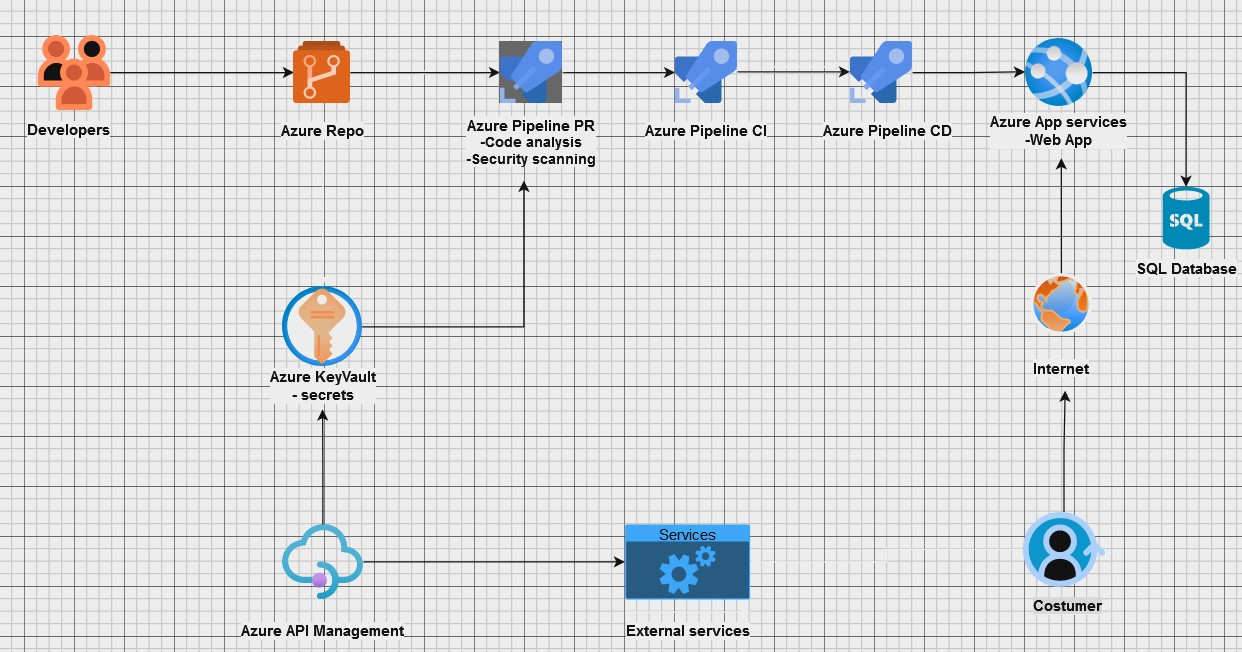
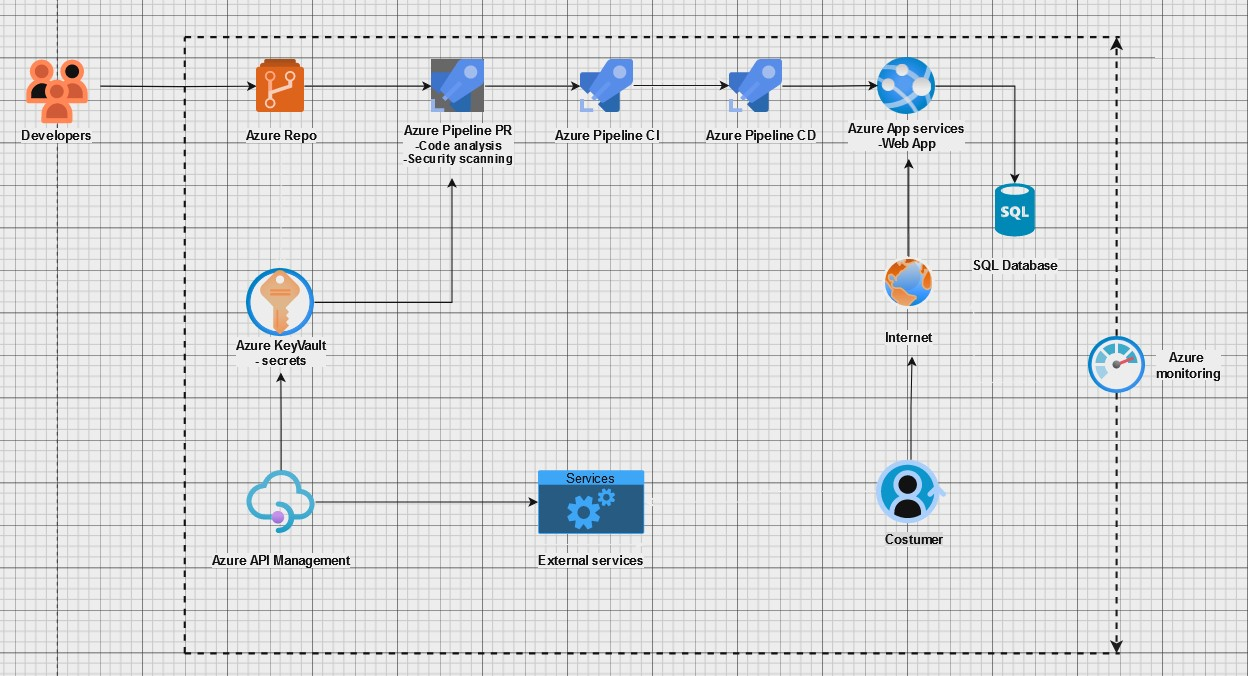
Initial commit

diff --git a/Full Terraform Configuration.md b/Full Terraform Configuration.md
@@ -1,33 +1,3 @@
-All these resourses are can be deployed in azure portal using GUI and can be configured manually.
-
-1. **SQL Database**:
-
-- Service: Azure SQL Database
-- Purpose: Store application data
-- Configuration: Single Database or Elastic Pool depending on the load and usage patterns
-
-2. **Key Vault**:
-
-- Service: Azure Key Vault
-- Purpose: Store sensitive information like connection strings, API keys, and certificates
-- Configuration: Enable logging and access policies for applications and developers
-
-3. **Webapp Services**:
-
-- Service: Azure App Service
-- Purpose: Host the web application
-- Configuration: Use App Service Plan to scale the app and deploy multiple instances for high availability
-
-4. **Integration with External Services**:
-
-- Services: Azure API Management, Logic Apps, or Azure Functions
-- Purpose: Manage and secure APIs, orchestrate workflows, or run serverless functions to integrate with external services
-- Configuration: Configure API endpoints, security, and monitoring
-
-**These resources can also be deployed using terraform and the services can be configured**
-
-The below is the example terraform code
-
 ```hcl
 # provider.tf
 provider "azurerm" {
@@ -118,4 +88,67 @@ resource "azurerm_api_management_api" "example" {
   protocols           = ["https"]
 }
 
+# monitoring.tf
+resource "azurerm_log_analytics_workspace" "main" {
+  name                = "myLogAnalyticsWorkspace"
+  location            = azurerm_resource_group.main.location
+  resource_group_name = azurerm_resource_group.main.name
+  sku                 = "PerGB2018"
+}
+
+resource "azurerm_application_insights" "main" {
+  name                = "myAppInsights"
+  location            = azurerm_resource_group.main.location
+  resource_group_name = azurerm_resource_group.main.name
+  application_type    = "web"
+  workspace_id        = azurerm_log_analytics_workspace.main.id
+}
+
+resource "azurerm_monitor_diagnostic_setting" "app_service" {
+  name               = "diagAppService"
+  target_resource_id = azurerm_app_service.main.id
+  log_analytics_workspace_id = azurerm_log_analytics_workspace.main.id
+
+  log {
+    category = "AppServiceHTTPLogs"
+    enabled  = true
+    retention_policy {
+      enabled = true
+      days    = 30
+    }
+  }
+
+  metric {
+    category = "AllMetrics"
+    enabled  = true
+    retention_policy {
+      enabled = true
+      days    = 30
+    }
+  }
+}
+
+resource "azurerm_monitor_diagnostic_setting" "sql_database" {
+  name               = "diagSqlDatabase"
+  target_resource_id = azurerm_sql_database.main.id
+  log_analytics_workspace_id = azurerm_log_analytics_workspace.main.id
+
+  log {
+    category = "SQLInsights"
+    enabled  = true
+    retention_policy {
+      enabled = true
+      days    = 30
+    }
+  }
+
+  metric {
+    category = "AllMetrics"
+    enabled  = true
+    retention_policy {
+      enabled = true
+      days    = 30
+    }
+  }
+}
 ```

diff --git a/Phase_05/Azure Monitoring.md b/Phase_05/Azure Monitoring.md
@@ -1,0 +1,77 @@
+1. **Azure Monitor**:
+
+- This service provides a unified view of our application and infrastructure performance and health.
+
+2. **Application Insights**:
+
+- This is an application performance management service for web applications that provides real-time monitoring and analytics.
+
+**Terraform configuration for Monitoring**
+
+```hcl
+
+# monitoring.tf
+resource "azurerm_log_analytics_workspace" "main" {
+  name                = "myLogAnalyticsWorkspace"
+  location            = azurerm_resource_group.main.location
+  resource_group_name = azurerm_resource_group.main.name
+  sku                 = "PerGB2018"
+}
+
+resource "azurerm_application_insights" "main" {
+  name                = "myAppInsights"
+  location            = azurerm_resource_group.main.location
+  resource_group_name = azurerm_resource_group.main.name
+  application_type    = "web"
+  workspace_id        = azurerm_log_analytics_workspace.main.id
+}
+
+resource "azurerm_monitor_diagnostic_setting" "app_service" {
+  name               = "diagAppService"
+  target_resource_id = azurerm_app_service.main.id
+  log_analytics_workspace_id = azurerm_log_analytics_workspace.main.id
+
+  log {
+    category = "AppServiceHTTPLogs"
+    enabled  = true
+    retention_policy {
+      enabled = true
+      days    = 30
+    }
+  }
+
+  metric {
+    category = "AllMetrics"
+    enabled  = true
+    retention_policy {
+      enabled = true
+      days    = 30
+    }
+  }
+}
+
+resource "azurerm_monitor_diagnostic_setting" "sql_database" {
+  name               = "diagSqlDatabase"
+  target_resource_id = azurerm_sql_database.main.id
+  log_analytics_workspace_id = azurerm_log_analytics_workspace.main.id
+
+  log {
+    category = "SQLInsights"
+    enabled  = true
+    retention_policy {
+      enabled = true
+      days    = 30
+    }
+  }
+
+  metric {
+    category = "AllMetrics"
+    enabled  = true
+    retention_policy {
+      enabled = true
+      days    = 30
+    }
+  }
+}
+
+```

diff --git a/Phase_03/Setting Up Azure DevOps Pipelines.md b/Phase_03/Setting Up Azure DevOps Pipelines.md
@@ -1,10 +1,4 @@
-1. **Repositories**:
-
-- Service: Azure Repos (Git)
-- Purpose: Store code and manage version control
-- Configuration: Set up branching strategy (e.g., GitFlow) and pull request policies
-
-2. **Build Pipeline CI**:
+1. **Build Pipeline CI**:
 
 - Service: Azure Pipelines
 - Purpose: Build and test the application
@@ -15,6 +9,11 @@
 ```yml
 trigger:
   - main
+resources:
+  repositories:
+    - repository: self
+      type: git
+      name: <your-project-name>/<your-repo-name>
 
 pool:
   vmImage: "ubuntu-latest"
@@ -48,17 +47,26 @@ steps:
       artifactName: "drop"
 ```
 
-3. **Release Pipeline**:
+2. **Release Pipeline**:
 
 - Service: Azure Pipelines
 - Purpose: Deploy the application to different environments (e.g., Dev, Test, Prod)
 - Configuration: Stages for each environment
-  Use deployment slots for zero-downtime deployment
-  Configure approvals and gates for promoting releases
+  deployment slots for zero-downtime deployment
+  Configured approvals and gates for promoting releases
   Example YAML configuration for pipeline as code
 
 ```yml
 trigger: none
+
+resources:
+  pipelines:
+    - pipeline: buildPipeline # Name of the resource to be used in this pipeline
+      source: <your-build-pipeline-name> # Name of the build pipeline that produces the artifacts
+      trigger:
+        branches:
+          include:
+            - main
 
 stages:
   - stage: Staging

diff --git a/Phase_02/AzureRepo.md b/Phase_02/AzureRepo.md
@@ -1,0 +1,40 @@
+Using Git we can push the source code of the aplication to Azure repo
+
+1. **Repositories**:
+
+- Service: Azure Repos (Git)
+- Purpose: Store code and manage version control
+- Configuration: Set up branching strategy (e.g., GitFlow) and pull request policies
+
+2. **Managing Source Code in Azure Repo**:
+
+- Adding Source Code
+
+```bash
+
+git add .
+git commit -m "Initial commit"
+git push origin main
+
+```
+
+3. **Managing Source Code in Azure Repo**
+
+- For each new feature or bug fix, we can create a new branch:
+
+```bash
+
+git checkout -b feature/your-feature-name
+
+```
+
+4. **Modify on our Branch**
+
+- We make changes and commit them
+
+```bash
+git add .
+git commit -m "Description of changes"
+git push origin feature/your-feature-name
+
+```

diff --git a/Architecture/Flow Diagram.md b/Architecture/Flow Diagram.md
@@ -1,12 +1,13 @@
-Azure WebApp with SQL database flow diagram
+Azure WebApp with SQL database flow diagram.
 
 ![Flow diagram](/Images/flowdiagram.jpg)
 
 The diagram illustrates the following components:
 
-- SQL database
+- Azure Repo
 - Key Vault
-- Web App Services
-- Azure DevOps Pipelines CI/CD
 - Azure API configuration
+- Azure DevOps Pipelines CI/CD
+- Web App Services
+- SQL database
 - Integration with External Services
